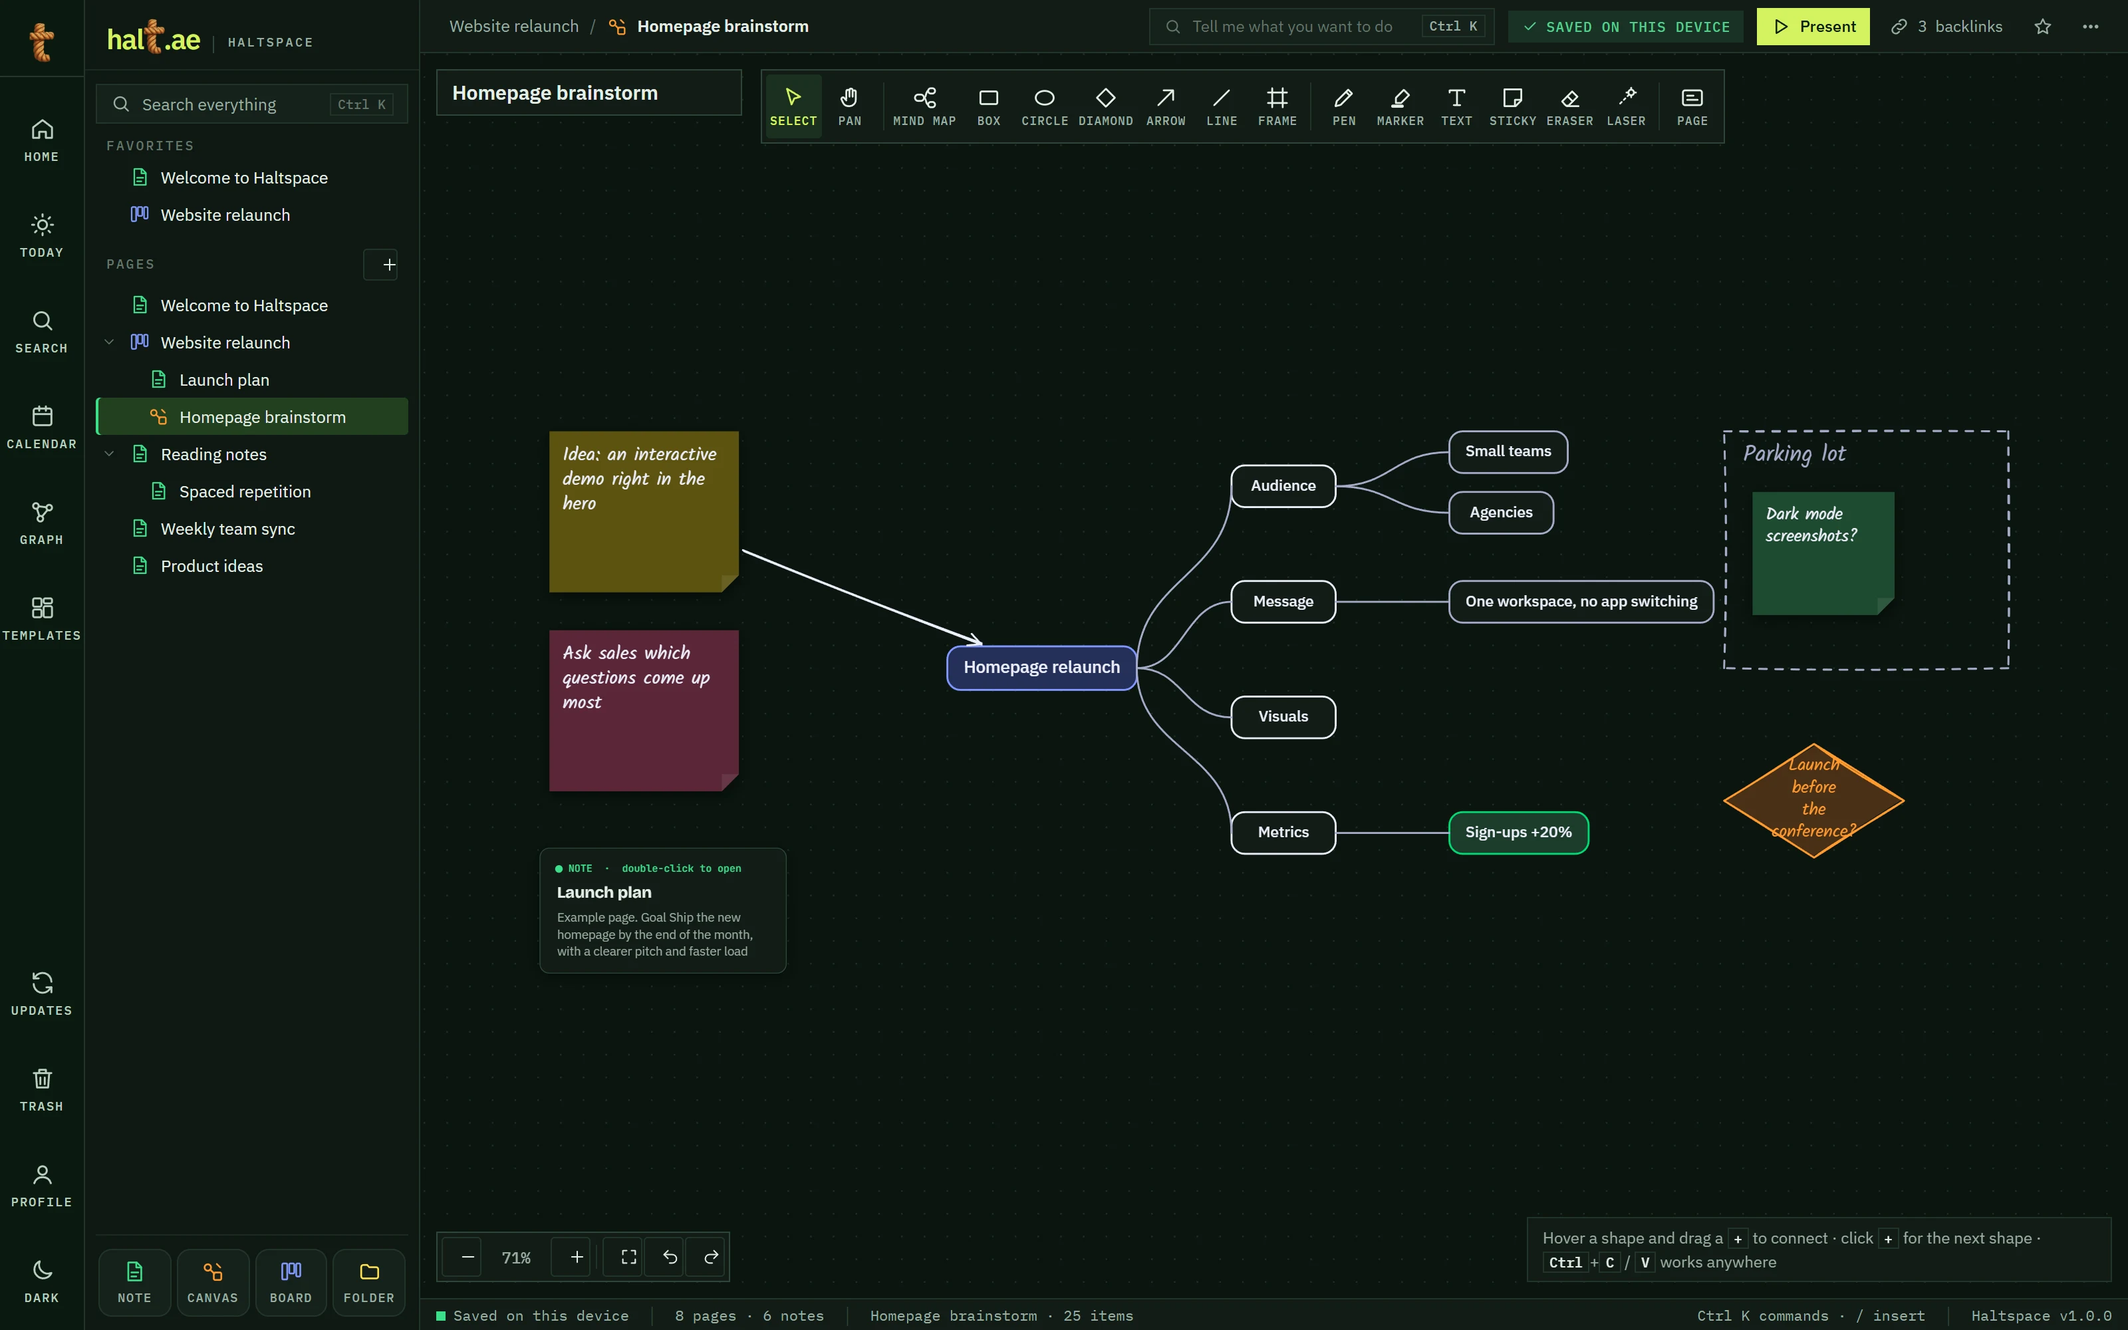
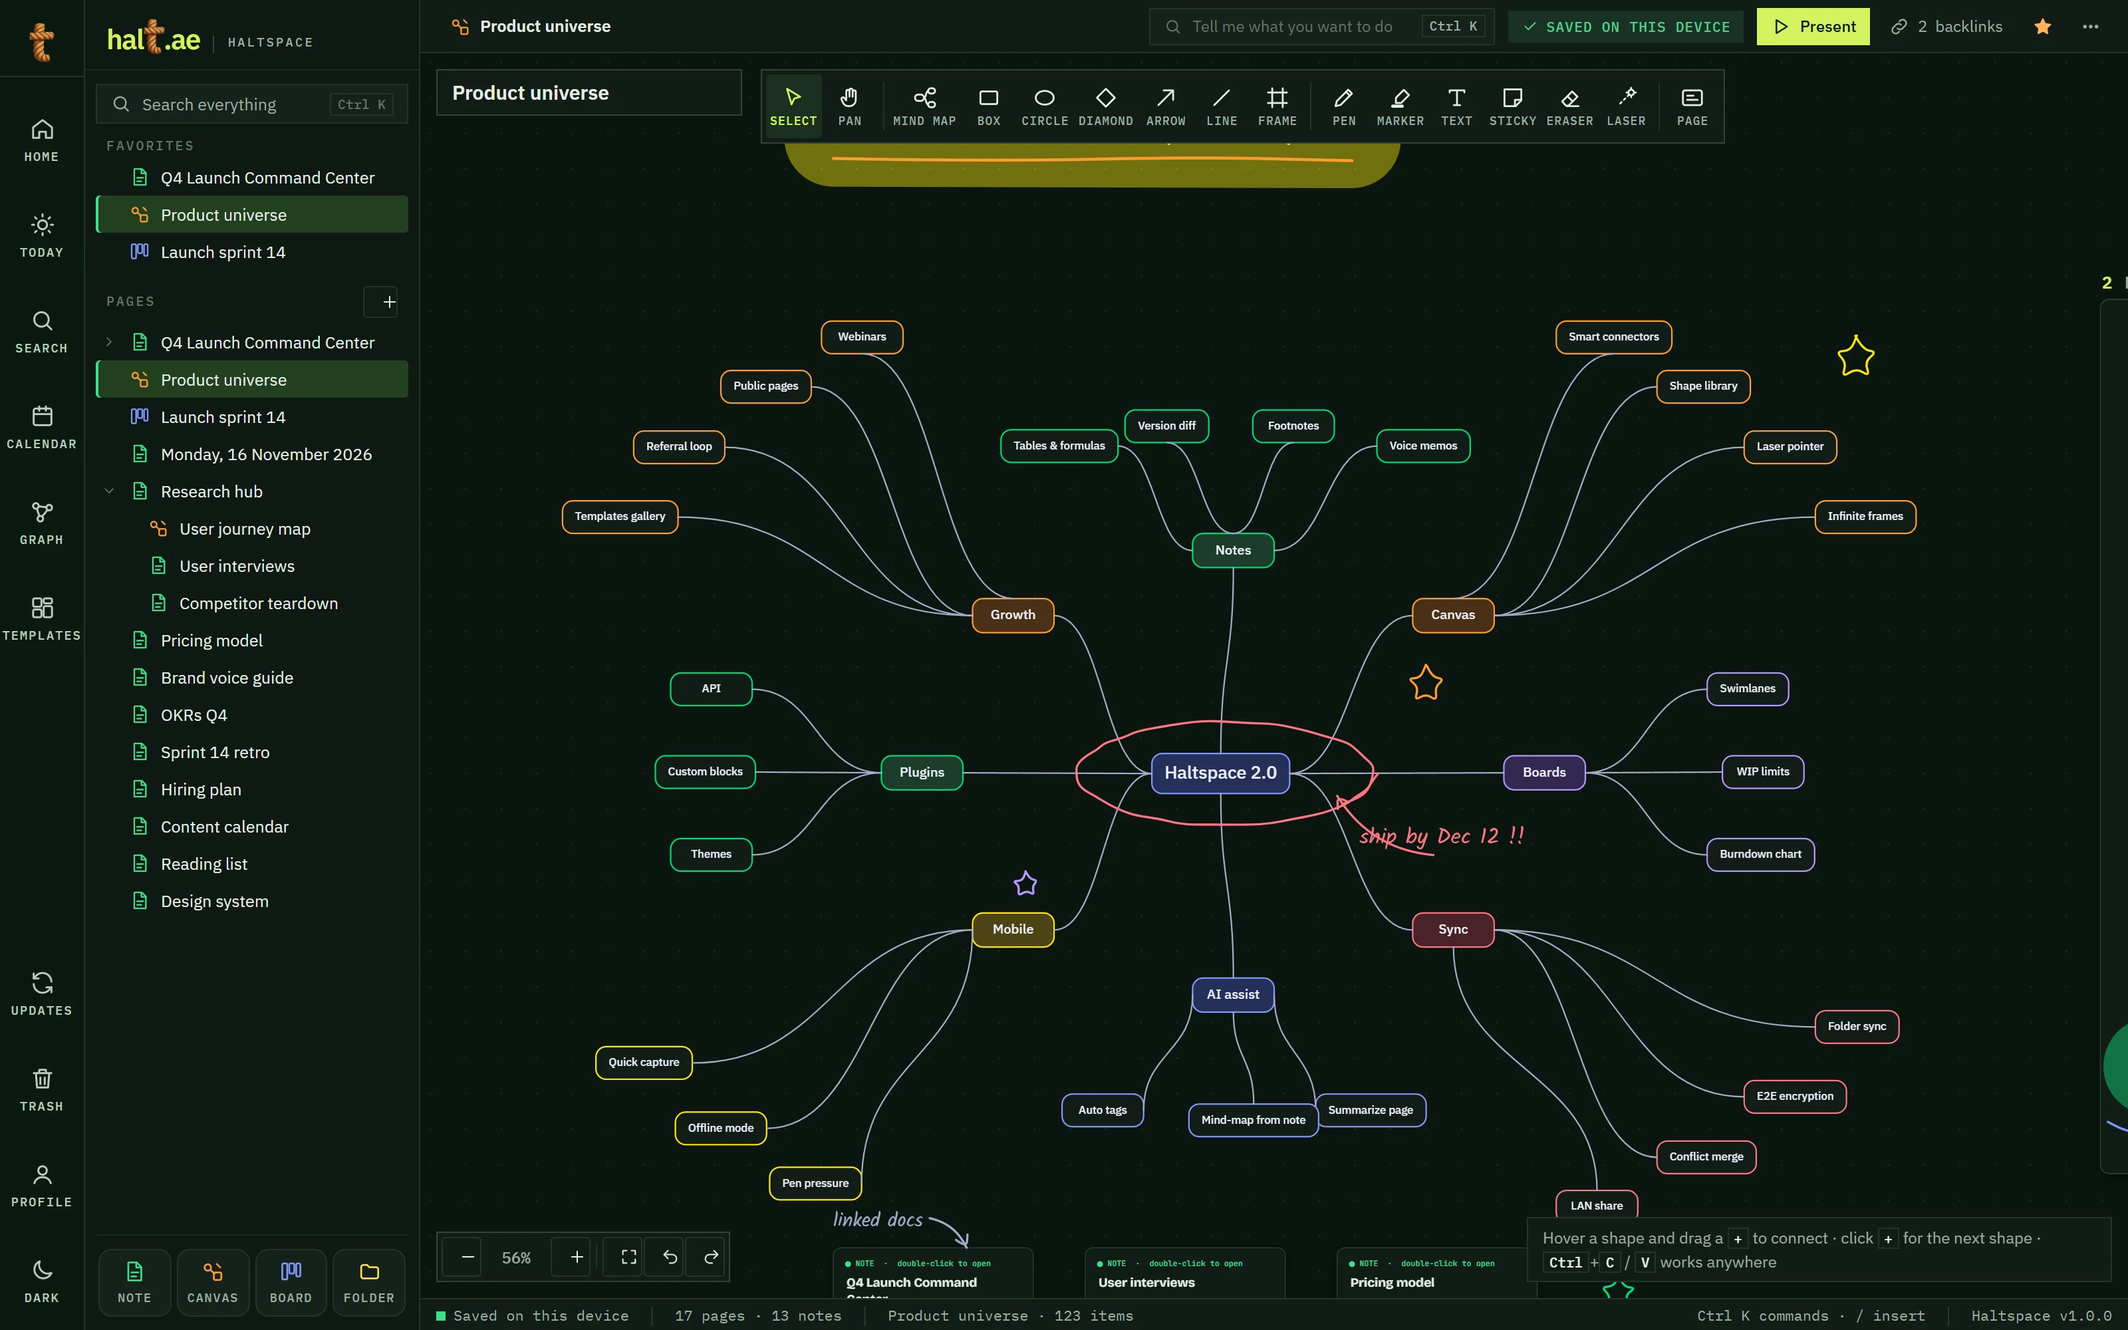
Packed showcase screenshots, sticky-note FAQ, colorful wordmarks
- Screenshots retaken from a dense demo workspace: a 123-item canvas,
  a launch plan with 14 tasks and tables, a 23-card sprint board,
  a journey map and a 17-page graph, in light and dark
- HALTSPACE and DOWNLOAD letters filled with a colorful sticky-note canvas,
  with a bold outline and offset shadow
- New "built for big, messy work" section with labeled screenshot tiles
- FAQ rebuilt as a wall of sticky notes that flip to show the answer

diff --git a/landing/index.html b/landing/index.html
@@ -69,8 +69,8 @@ code{font:500 .86em var(--mono);background:var(--lime-soft);padding:0 4px}
 .hero .doodle{top:30px;left:-4%;width:108%;height:auto}
 .mega{position:relative;z-index:1;margin:0;font:900 clamp(64px,17.6vw,330px)/.82 var(--sans);font-stretch:68%;letter-spacing:-.025em;text-transform:uppercase;text-align:center;
   color:var(--forest);
-  background:url(screenshots/canvas-dark.webp) 0% 40%/34% auto no-repeat, url(screenshots/board-dark.webp) 36% 30%/34% auto no-repeat, url(screenshots/graph-dark.webp) 70% 40%/34% auto no-repeat, url(screenshots/home-dark.webp) 104% 30%/34% auto no-repeat, var(--forest);
-  -webkit-background-clip:text;background-clip:text;-webkit-text-fill-color:transparent;padding:0 var(--pad)}
+  background:url(screenshots/fill.webp) 0 0/52% auto repeat, var(--lime);
+  -webkit-background-clip:text;background-clip:text;-webkit-text-fill-color:transparent;-webkit-text-stroke:clamp(1.5px,.22vw,4px) var(--forest);padding:0 var(--pad);filter:drop-shadow(.04em .045em 0 var(--forest))}
 .hero-sub{position:relative;z-index:1;display:grid;grid-template-columns:1.05fr 1fr;gap:clamp(24px,5vw,90px);align-items:start;margin-top:clamp(28px,4vw,56px)}
 .hero-sub h1{margin:0;font-size:clamp(30px,3.6vw,52px);line-height:1.02;color:var(--forest)}
 .hero-sub h1 .hand{font-size:1.25em;display:inline-block;transform:rotate(-3deg);margin-left:.1em}
@@ -119,6 +119,20 @@ code{font:500 .86em var(--mono);background:var(--lime-soft);padding:0 4px}
 .cols a{font:700 12px var(--mono);letter-spacing:.12em;text-transform:uppercase;color:var(--lime);text-decoration:none}
 .cols a:hover{text-decoration:underline}
 
+/* bento */
+.lede-c{max-width:680px;margin:clamp(24px,3vw,40px) auto 0;text-align:center;font-size:clamp(17px,1.5vw,21px);color:var(--muted)}
+.bento{display:grid;grid-template-columns:repeat(4,1fr);grid-auto-rows:clamp(150px,15vw,250px);gap:16px;margin-top:clamp(30px,4vw,56px)}
+.tile{position:relative;margin:0;border-radius:18px;overflow:hidden;border:1.5px solid var(--forest);background:var(--paper)}
+.tile img{width:100%;height:100%;object-fit:cover;object-position:70% 45%;transform:scale(1.32);transform-origin:68% 42%;transition:transform .6s}
+.tile:hover img{transform:scale(1.4)}
+.t-big{grid-column:span 2;grid-row:span 2}
+.t-big img{transform-origin:62% 52%}
+.tile:not(.t-big):not(.t-tall) figcaption{font-size:12px;padding:7px 10px}
+.tile:not(.t-big):not(.t-tall) figcaption b{font-size:17px}
+.t-tall{grid-column:span 2;grid-row:span 2}
+.t-wide{grid-column:span 2}
+.tile figcaption{position:absolute;left:12px;bottom:12px;right:12px;display:flex;flex-wrap:wrap;align-items:baseline;gap:4px 10px;padding:9px 13px;border-radius:12px;background:color-mix(in srgb,var(--forest) 92%,transparent);color:#DCEBD8;font-size:13.5px;line-height:1.35}
+.tile figcaption b{font:900 20px var(--sans);font-stretch:75%;color:var(--lime);text-transform:uppercase}
 /* tour (horizontal) */
 .tour{position:relative;padding:clamp(80px,10vw,140px) 0 0;overflow:hidden}
 .tour-head{display:flex;align-items:end;justify-content:space-between;gap:20px;flex-wrap:wrap}
@@ -160,6 +174,25 @@ code{font:500 .86em var(--mono);background:var(--lime-soft);padding:0 4px}
 .steps li i{font:700 34px/1 var(--hand);font-style:normal;color:var(--paper);background:var(--forest);border-radius:50%;width:54px;height:54px;display:grid;place-items:center}
 .steps b{display:block;font-size:19px;color:var(--forest)}
 .steps span{color:var(--muted);font-size:15.5px}
+.faq-zone{margin-top:clamp(70px,9vw,130px)}
+.faq-head{display:flex;flex-wrap:wrap;align-items:end;justify-content:space-between;gap:6px 24px}
+.faq-head h2{margin:8px 0 0;font-size:clamp(40px,5vw,76px);line-height:.95;color:var(--forest)}
+.faq-hint{font-size:30px;margin:0 0 6px}
+.wall{display:grid;grid-template-columns:repeat(4,1fr);gap:26px 22px;margin-top:36px;perspective:1400px}
+.sn{all:unset;box-sizing:border-box;display:block;cursor:pointer;aspect-ratio:1/0.8;transform:rotate(var(--r));transition:transform .3s}
+.sn:hover{transform:rotate(0) translateY(-4px) scale(1.02)}
+.sn:focus-visible{outline:3px solid var(--amber);outline-offset:6px}
+.sn-in{position:relative;display:block;width:100%;height:100%;transform-style:preserve-3d;transition:transform .7s cubic-bezier(.3,1.4,.5,1)}
+.sn[aria-expanded="true"] .sn-in{transform:rotateY(180deg)}
+.sn-f,.sn-b{position:absolute;inset:0;backface-visibility:hidden;-webkit-backface-visibility:hidden;padding:26px 22px 18px;box-shadow:0 14px 22px -14px rgba(16,38,26,.45),inset 0 -18px 30px -24px rgba(0,0,0,.25);display:flex;flex-direction:column}
+.sn-f b{font:700 clamp(26px,2.3vw,34px)/1.02 var(--hand);color:#1d2a20}
+.sn-f em{margin-top:auto;font:600 10.5px var(--mono);font-style:normal;letter-spacing:.14em;text-transform:uppercase;color:rgba(29,42,32,.55)}
+.sn-b{transform:rotateY(180deg);font-size:15.5px;line-height:1.5;color:#1d2a20;justify-content:center}
+.tape{position:absolute;top:-11px;left:50%;width:84px;height:24px;transform:translateX(-50%) rotate(-4deg);background:rgba(255,255,255,.55);border:1px solid rgba(0,0,0,.06)}
+.sn-yellow .sn-f,.sn-yellow .sn-b{background:#FFF06B}
+.sn-pink .sn-f,.sn-pink .sn-b{background:#FFCADB}
+.sn-blue .sn-f,.sn-blue .sn-b{background:#C6DAFF}
+.sn-green .sn-f,.sn-green .sn-b{background:#C9F0D5}
 .faq details{border-bottom:1.5px solid var(--line)}
 .faq summary{cursor:pointer;list-style:none;display:flex;justify-content:space-between;gap:16px;padding:20px 0;font:700 19px var(--sans);color:var(--forest)}
 .faq summary::-webkit-details-marker{display:none}
@@ -169,7 +202,7 @@ code{font:500 .86em var(--mono);background:var(--lime-soft);padding:0 4px}
 
 /* final */
 .final{position:relative;padding:clamp(40px,6vw,80px) 0 0;text-align:center;overflow:hidden}
-.final .mega{font-size:clamp(60px,15.5vw,290px);background:url(screenshots/canvas-dark.webp) 30% 50%/60% auto no-repeat,url(screenshots/notes-dark.webp) 100% 40%/50% auto no-repeat,var(--forest);-webkit-background-clip:text;background-clip:text}
+.final .mega{font-size:clamp(60px,15.5vw,290px);background:url(screenshots/fill-dark.webp) 0 30%/50% auto repeat,var(--forest);-webkit-background-clip:text;background-clip:text;filter:drop-shadow(.04em .045em 0 var(--amber))}
 .final .hand{font-size:clamp(40px,5vw,80px);display:block;margin:-.2em 0 .5em;transform:rotate(-3deg)}
 .final .cta{justify-content:center}
 .final .meta{margin-bottom:clamp(60px,8vw,110px)}
@@ -188,6 +221,8 @@ footer a:hover{color:var(--forest)}
   .cols>div{border-left:0;padding:0 0 0 0;border-top:1.5px solid #2C6146;padding-top:22px}
   .cols>div:first-child{border-top:0;padding-top:0}
   .swap-grid,.feat{grid-template-columns:1fr 1fr}
+  .bento{grid-template-columns:1fr 1fr}
+  .wall{grid-template-columns:1fr 1fr}
   .f:not(:nth-child(3n+1)){padding-left:0;border-left:0}
   .f:nth-child(even){padding-left:24px;border-left:1.5px solid var(--line)}
 }
@@ -196,6 +231,9 @@ footer a:hover{color:var(--forest)}
   .nav .btn{display:none}
   .hero{padding-top:96px}
   .swap-grid,.feat{grid-template-columns:1fr}
+  .bento{grid-template-columns:1fr;grid-auto-rows:220px}
+  .t-big,.t-tall,.t-wide{grid-column:auto;grid-row:auto}
+  .wall{gap:20px 14px}.sn-f,.sn-b{padding:20px 14px 12px}.sn-b{font-size:13.5px}.sn-f b{font-size:24px}
   .f:nth-child(even){padding-left:0;border-left:0}
   .rail{width:auto;overflow-x:auto;scroll-snap-type:x mandatory;padding-bottom:70px}
   .slide{width:86vw;scroll-snap-align:center}
@@ -223,7 +261,7 @@ footer a:hover{color:var(--forest)}
   <!-- HERO -->
   <section class="hero">
     <svg class="doodle" viewBox="0 0 1600 520" aria-hidden="true"><path data-draw d="M-40 300 C 120 120, 300 120, 360 250 S 300 470, 220 400 S 260 180, 470 160 S 760 330, 860 260 C 940 200, 900 90, 830 120 C 760 150, 820 300, 980 320 S 1240 140, 1330 210 S 1380 420, 1290 410 S 1300 230, 1460 190 S 1640 260, 1680 220"/></svg>
-    <h2 class="mega">Haltspace</h2>
+    <h2 class="mega" data-text="Haltspace">Haltspace</h2>
     <div class="wrap hero-sub">
       <h1 class="ital" data-reveal>Notes, whiteboards and projects, <span class="hand">in one app.</span></h1>
       <div data-reveal>
@@ -270,6 +308,24 @@ footer a:hover{color:var(--forest)}
       <div data-reveal><h3 class="ital">Infinite whiteboard</h3><p>Sticky notes, mind maps, hand-drawn shapes and frames, on a canvas that never runs out. Drag from any shape to connect it, then present it.</p><a href="#tour">See the whiteboard →</a></div>
       <div data-reveal><h3 class="ital">Project boards</h3><p>Cards with labels and due dates in columns, or flip the same board into a table or a calendar. Link any card to its notes.</p><a href="#tour">See the boards →</a></div>
       <div data-reveal><h3 class="ital">Everything connected</h3><p>Every <code style="background:#1F5A3B;color:var(--lime)">[[link]]</code> becomes a backlink and a line in the graph, so ideas find each other. Search it all with Ctrl K.</p><a href="#tour">See the graph →</a></div>
+    </div>
+  </section>
+
+  <!-- MESSY -->
+  <section class="story" id="messy" style="padding-bottom:40px">
+    <div class="word-block">
+      <p class="ghost-word" aria-hidden="true">Messy</p>
+      <span class="overlay hand" data-reveal>built for big, messy work</span>
+    </div>
+    <div class="wrap">
+      <p class="lede-c" data-reveal>Not a toy notepad. This is one real workspace: a product launch with research, plans, flows and deadlines, all in one window.</p>
+      <div class="bento">
+        <figure class="tile t-big" data-reveal><img src="screenshots/canvas.webp" alt="A whiteboard with a big mind map, a research wall of sticky notes and a launch flowchart" width="1600" height="1000" loading="lazy"><figcaption><b>123 items</b><span>on one canvas: mind map, 12-sticky research wall, flowchart</span></figcaption></figure>
+        <figure class="tile t-tall" data-reveal><img src="screenshots/notes.webp" alt="A launch plan note with tasks, tables and colored statuses" width="1600" height="1000" loading="lazy"><figcaption><b>14 tasks · 2 tables</b><span>colored statuses, highlights, a drawing inside the note</span></figcaption></figure>
+        <figure class="tile " data-reveal><img src="screenshots/board.webp" alt="A five-column sprint board" width="1600" height="1000" loading="lazy"><figcaption><b>23 cards</b><span>5 columns, labels, due dates, linked pages</span></figcaption></figure>
+        <figure class="tile " data-reveal><img src="screenshots/journey.webp" alt="A user journey map on the canvas" width="1600" height="1000" loading="lazy"><figcaption><b>5 swimlanes</b><span>a user journey map, sticky by sticky</span></figcaption></figure>
+        <figure class="tile t-wide" data-reveal><img src="screenshots/graph-dark.webp" alt="The graph of linked pages in dark mode" width="1600" height="1000" loading="lazy"><figcaption><b>17 pages</b><span>every [[link]] becomes a line</span></figcaption></figure>
+      </div>
     </div>
   </section>
 
@@ -336,17 +392,18 @@ footer a:hover{color:var(--forest)}
           <li data-reveal><i>3</i><div><b>Stay updated</b><span>Haltspace checks for new versions when it opens. When one is ready, click Restart to update.</span></div></li>
         </ol>
       </div>
-      <div id="faq">
-        <span class="k">Questions</span>
-        <h2 class="ital">FAQ</h2>
-        <div class="faq">
-          <details open><summary>Is Haltspace free?</summary><p>Yes. Haltspace is free to download and use, with no account and no subscription.</p></details>
-          <details><summary>Where are my notes stored?</summary><p>On your own computer, inside the app. Nothing is uploaded. Use Home → Backup to save a copy of your whole workspace, and Restore backup to bring it back on any computer.</p></details>
-          <details><summary>Why does Windows say "Windows protected your PC"?</summary><p>Windows shows this for apps from new publishers that haven't bought a code-signing certificate yet. Click More info, then Run anyway. The installer is built automatically from the public source code on GitHub.</p></details>
-          <details><summary>How do updates work?</summary><p>When a new version is released, Haltspace shows a notice. Open Updates and click Restart to update; it downloads, installs and reopens by itself, and your notes stay where they are.</p></details>
-          <details><summary>Does it work offline?</summary><p>Yes. The Windows app works fully offline. You only need a connection to check for updates and to load online fonts.</p></details>
-          <details><summary>Is there a Mac version?</summary><p>Not yet. A macOS app is on the roadmap. Until then you can <a href="app/">use Haltspace in your browser</a> on any computer.</p></details>
-        </div>
+    </div>
+    <div class="wrap faq-zone" id="faq">
+      <div class="faq-head"><div><span class="k">Questions</span><h2 class="ital">Things people <span class="hand">actually ask</span></h2></div><p class="faq-hint hand">pick a note, any note ↓</p></div>
+      <div class="wall">
+        <button class="sn sn-yellow" style="--r:-3deg" aria-expanded="false"><span class="sn-in"><span class="sn-f"><i class="tape"></i><b>Is it actually free?</b><em>tap to flip ↻</em></span><span class="sn-b">Yes. No account, no trial, no “pro” wall. Download it and it's yours.</span></span></button>
+        <button class="sn sn-pink" style="--r:2deg" aria-expanded="false"><span class="sn-in"><span class="sn-f"><i class="tape"></i><b>Where do my notes live?</b><em>tap to flip ↻</em></span><span class="sn-b">On your computer, inside the app. Nothing is uploaded. Home → Backup saves everything as one file you can restore anywhere.</span></span></button>
+        <button class="sn sn-blue" style="--r:-1.5deg" aria-expanded="false"><span class="sn-in"><span class="sn-f"><i class="tape"></i><b>“Windows protected your PC”?!</b><em>tap to flip ↻</em></span><span class="sn-b">Windows says that about new apps without a paid code-signing certificate. Click More info → Run anyway. The installer is built straight from the public code on GitHub.</span></span></button>
+        <button class="sn sn-green" style="--r:3deg" aria-expanded="false"><span class="sn-in"><span class="sn-f"><i class="tape"></i><b>How do updates work?</b><em>tap to flip ↻</em></span><span class="sn-b">You get a notice when a new version is out. Click Restart to update and it installs itself. Your notes stay put.</span></span></button>
+        <button class="sn sn-yellow" style="--r:-2.5deg" aria-expanded="false"><span class="sn-in"><span class="sn-f"><i class="tape"></i><b>Does it work offline?</b><em>tap to flip ↻</em></span><span class="sn-b">Completely. You only need the internet to check for updates and to load web fonts.</span></span></button>
+        <button class="sn sn-pink" style="--r:1.5deg" aria-expanded="false"><span class="sn-in"><span class="sn-f"><i class="tape"></i><b>Can I bring my Notion or Obsidian notes?</b><em>tap to flip ↻</em></span><span class="sn-b">Not with one click yet: Markdown import is on the roadmap. Today you can paste rich text and the formatting comes along.</span></span></button>
+        <button class="sn sn-blue" style="--r:-1deg" aria-expanded="false"><span class="sn-in"><span class="sn-f"><i class="tape"></i><b>Mac? Phone?</b><em>tap to flip ↻</em></span><span class="sn-b">A Mac app and a phone layout are on the roadmap. Until then, the browser version runs on any computer.</span></span></button>
+        <button class="sn sn-green" style="--r:2.5deg" aria-expanded="false"><span class="sn-in"><span class="sn-f"><i class="tape"></i><b>Something broke. Now what?</b><em>tap to flip ↻</em></span><span class="sn-b">Tell us on GitHub (link in the footer). Screenshots help, and your notes are never part of a bug report.</span></span></button>
       </div>
     </div>
   </section>
@@ -354,7 +411,7 @@ footer a:hover{color:var(--forest)}
   <!-- FINAL -->
   <section class="final" id="download">
     <svg class="doodle lime" viewBox="0 0 1600 400" style="left:0;top:40px;width:100%" aria-hidden="true"><path data-draw d="M-20 220 C 160 60, 320 360, 520 200 S 760 40, 820 160 S 700 330, 640 250 S 900 80, 1100 220 S 1400 330, 1620 140"/></svg>
-    <h2 class="mega" aria-label="Download">Download</h2>
+    <h2 class="mega" data-text="Download">Download</h2>
     <span class="hand">it's free, forever</span>
     <div class="wrap">
       <div class="cta">
@@ -376,6 +433,8 @@ footer a:hover{color:var(--forest)}
 <script src="https://cdnjs.cloudflare.com/ajax/libs/gsap/3.12.5/gsap.min.js"></script>
 <script src="https://cdnjs.cloudflare.com/ajax/libs/gsap/3.12.5/ScrollTrigger.min.js"></script>
 <script>
+// FAQ sticky notes flip
+document.querySelectorAll('.sn').forEach(b => b.addEventListener('click', () => b.setAttribute('aria-expanded', b.getAttribute('aria-expanded') === 'true' ? 'false' : 'true')));
 // Nav background once you scroll
 (() => { const n = document.getElementById('nav'); const f = () => n.classList.toggle('solid', scrollY > 30); addEventListener('scroll', f, { passive: true }); f(); })();
 
